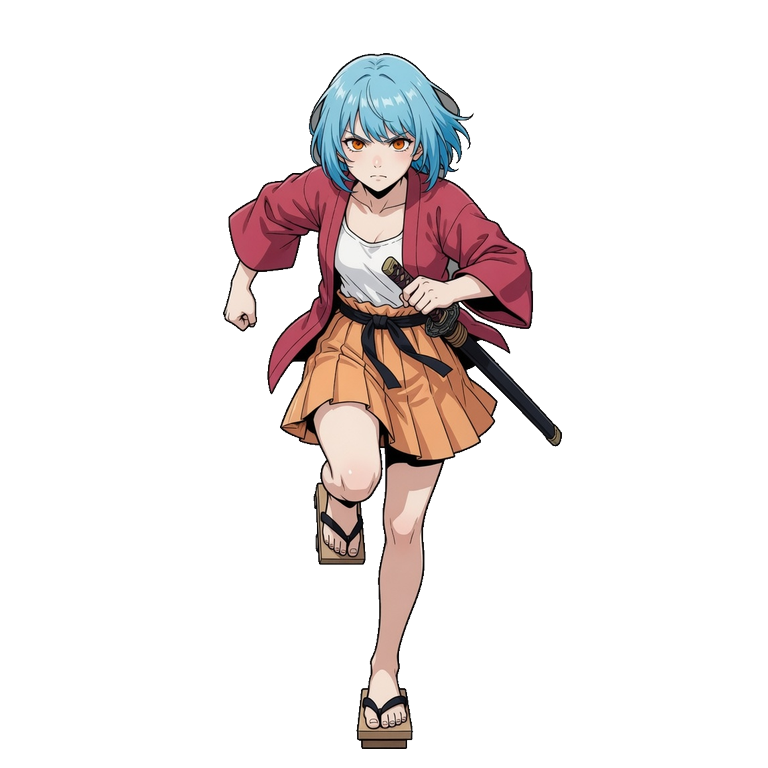
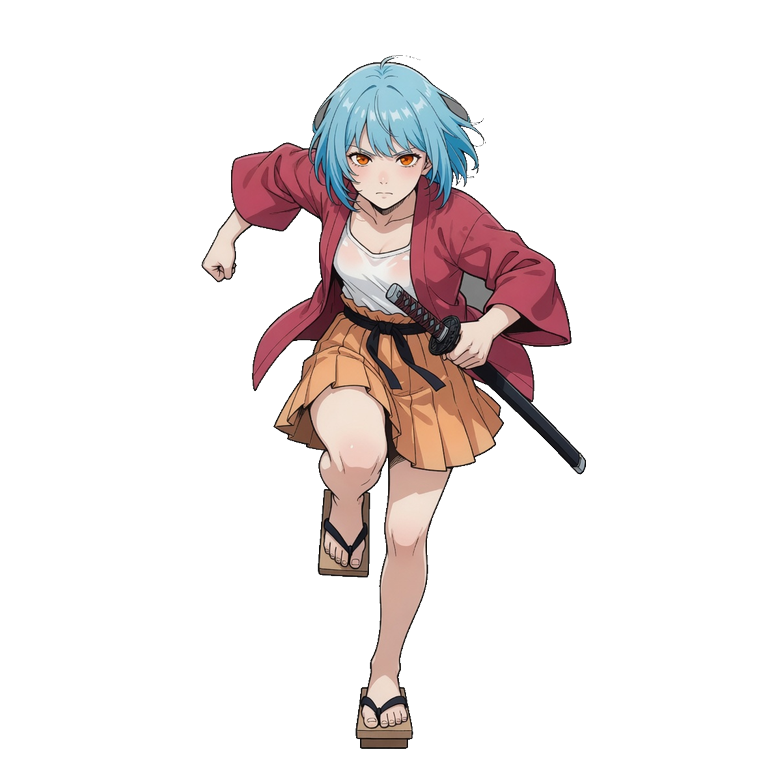
ORC-20260816-036: alternate both feet on run; keep 4-dir art for now.

Changed region(s): [[0.25, 0.0625, 0.7812, 0.9688]]

diff --git a/docs/art/identity-girl1/README.md b/docs/art/identity-girl1/README.md
@@ -1,7 +1,7 @@
 # girl1 identity (not in-game)
 
 Source: `C:\work\girl1.png`  
-Status: HD-2D first slice started (`ORC-20260816-035`). Side idle + side walk use the 120-look frames. Other facings are still the old heroine. 3D trial remains stopped.
+Status: HD-2D Idle/Walk/Run use Grok 2D frames. **Stabilize 4 directions first** (down / side / up; diagonals reuse side). Original game is 8-directional; unique diagonal art comes later. 3D trial remains stopped.
 
 | File | View |
 | --- | --- |
